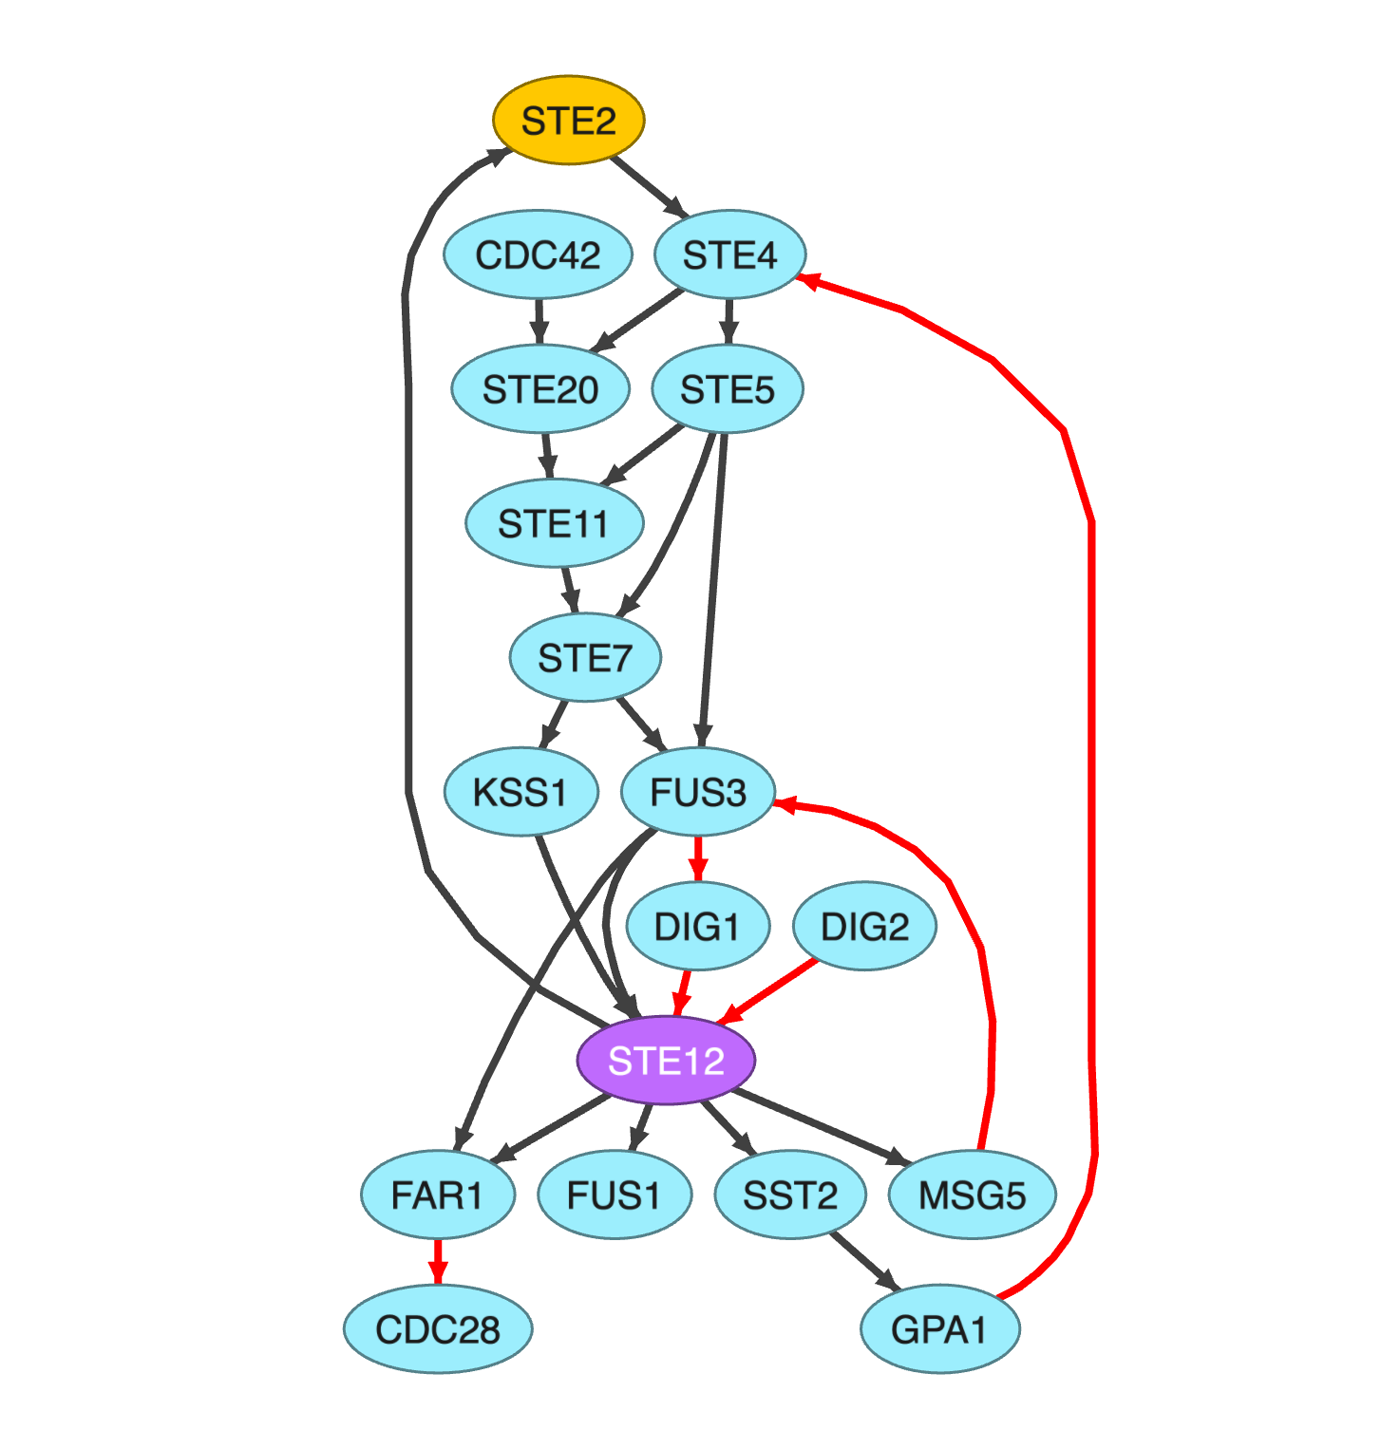
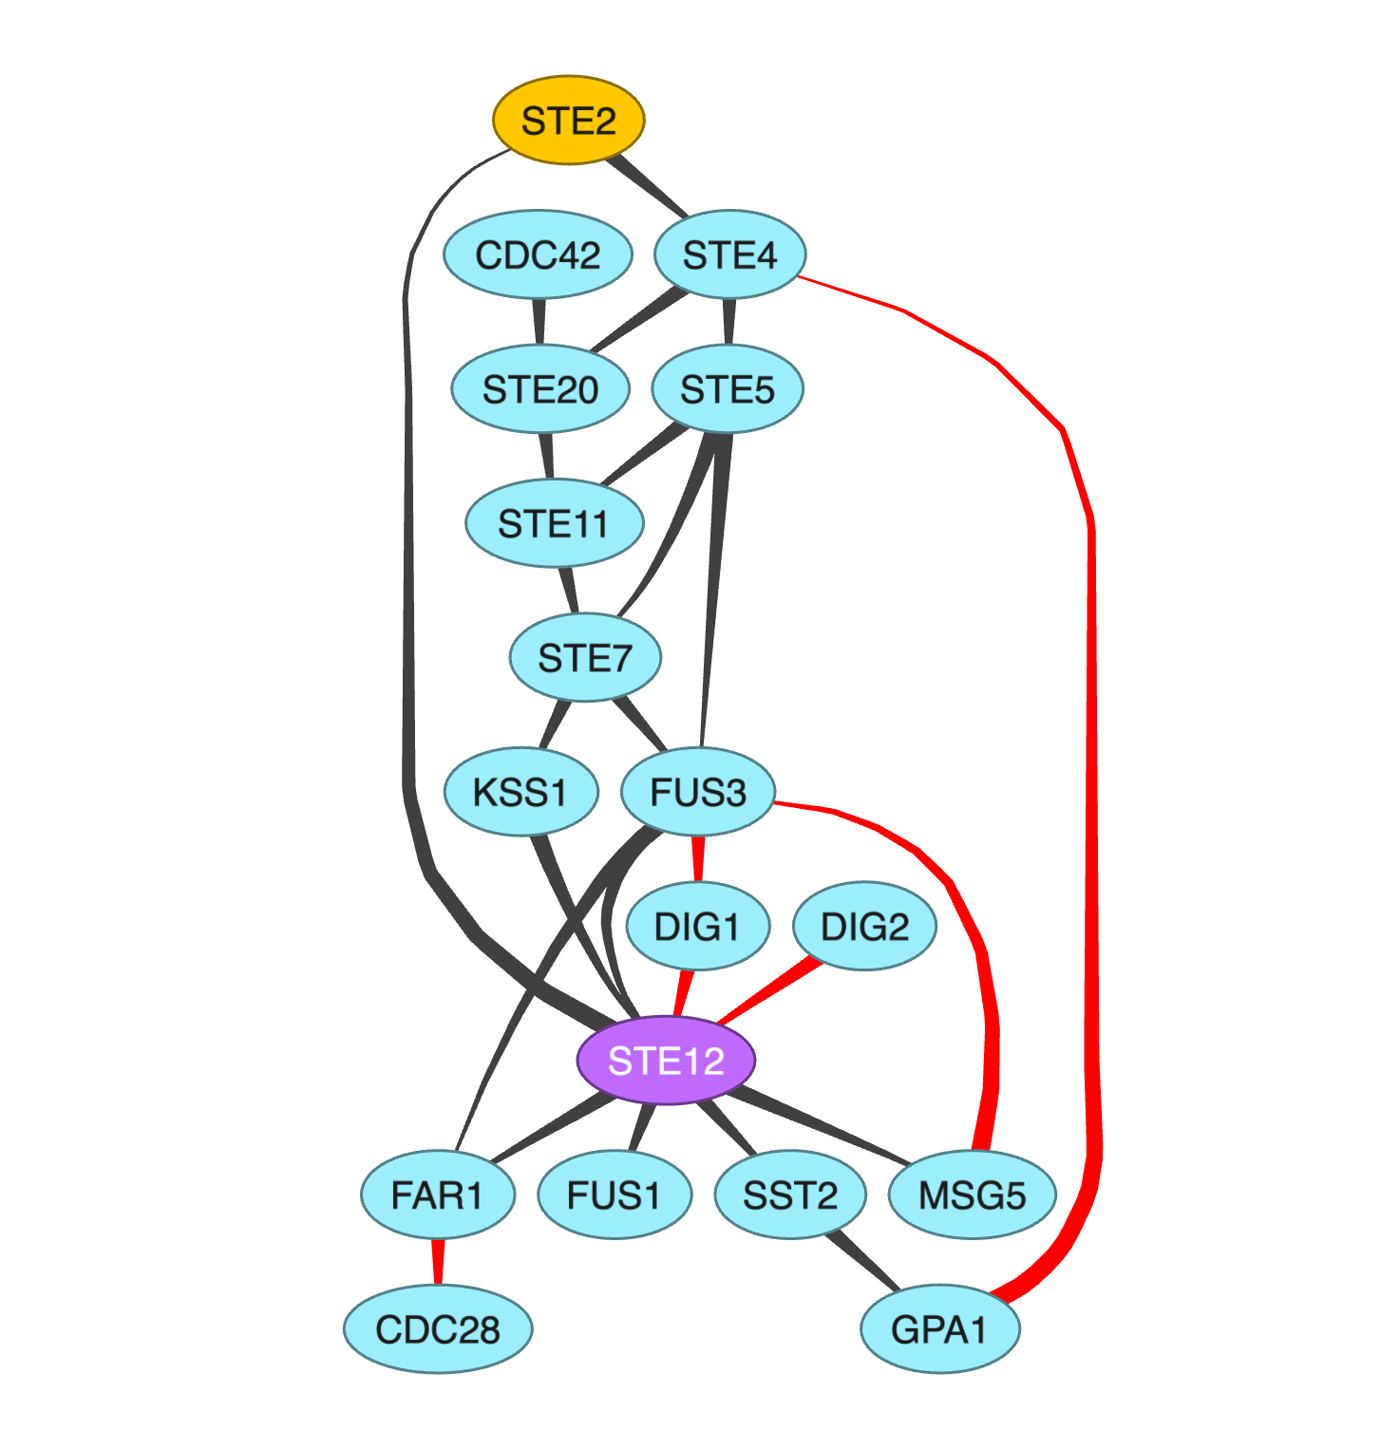
cookbook updates

diff --git a/docs/API.md b/docs/API.md
@@ -717,7 +717,7 @@ has a `born` step; removed edges stay in the graph, hidden, with the
 step they were removed in `died` (-1 for edges still there), so
 revealUpTo(step) replays additions and removals.
 
-### `makeLFR(n=250, tau1=2.5, tau2=1.5, mu=0.1, degree=10, maxDegree=None, minCommunity=20, seed=0, layout=True)`
+### `makeLFR(n=250, tau1=2.5, tau2=1.5, mu=0.1, degree=10, maxDegree=None, minCommunity=20, seed=None, layout=True)`
 
 makeLFR(n, tau1, tau2, mu) makes a Lancichinetti-Fortunato-Radicchi
 benchmark network: power-law degrees (exponent tau1) and community sizes
@@ -727,8 +727,8 @@ communities; past about 0.5 they stop being communities at all. The
 node field `community` holds the planted groups (0 = largest), to
 compare with what an algorithm finds: compareClusters(louvain_class,
 community). degree= is the mean degree. The construction fails for some
-seeds, so up to ten seeds from seed= are tried (the one used is
-printed); if all fail, try larger communities or a lower mu.
+seeds, so up to ten seeds from seed= (default 0) are tried, the same
+ones every time; if all fail, try larger communities or a lower mu.
 
 ### `makeNicheModel(species=30, connectance=0.15, seed=0)`
 
@@ -824,16 +824,18 @@ plotSpectrum() charts the eigenvalues of the Laplacian (or
 to count components; a small second eigenvalue means the network
 nearly splits in two.
 
-### `rankNodes(name='rank', alpha=0.0)`
+### `rankNodes(name='rank', alpha=0.0, endorsements=False)`
 
 rankNodes() places the nodes of a directed network on a ladder so that
 edges mostly point the same way (Newman, Networks, section 14.7.4): the
 SpringRank method (De Bacco, Larremore and Moore 2018), where each edge
-i -> j is a spring pulling i one unit above j. Use it for dominance,
-endorsement or who-hires-whose-graduates networks. Sets the node field
-`rank` (higher = above) and returns the share of edges that point
-downwards, from higher to lower rank. alpha > 0 pulls ranks toward 0
-(useful when the network is in pieces).
+i -> j is a spring pulling i one unit above j, as in dominance networks
+(i beat j) or who-hires-whose-graduates (j hired from i).
+endorsements=true reads each edge the other way, j above i, for links,
+citations or votes, where pointing to someone ranks them up. Sets the
+node field `rank` (higher = above) and returns the share of edges that
+agree with the ladder. alpha > 0 pulls ranks toward 0 (useful when the
+network is in pieces).
 
 ### `readSets(filename, item=None, set=None, where=None)`
 
